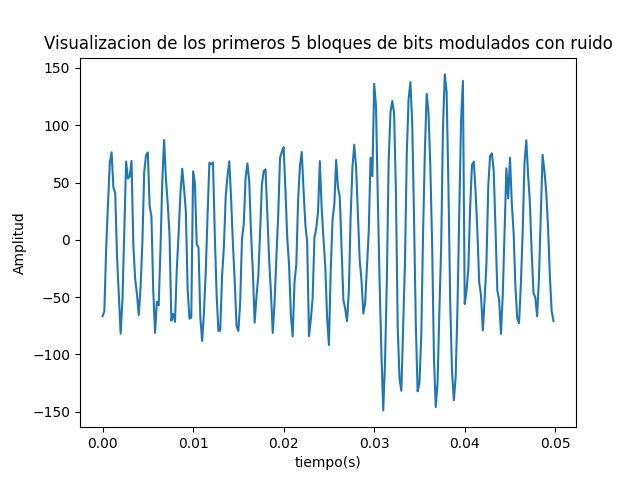
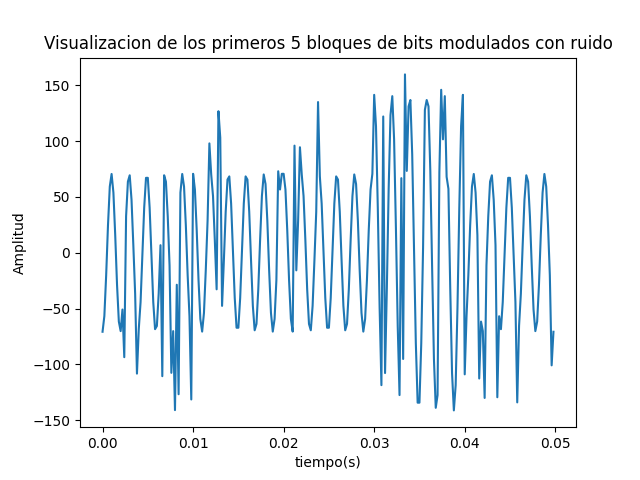
update

diff --git a/P6/p7conruido.py b/P6/p7conruido.py
@@ -92,24 +92,28 @@ for p,b in enumerate(bits):
         senal[p*pts:(p+1)*pts] = 5*cnst*cosine
     elif (b[0]%2  != 0 and b[1]%2 != 0): #11
         senal[p*pts:(p+1)*pts] = 10*cnst*cosine
-
-
-# Se agrega ruido a la señal
-
-# Potencia instantánea
-Pinst = senal**2
-# Potencia promedio a partir de la potencia instantánea (W)
-Ps = integrate.trapz(Pinst, t) / (len(bits)*50 * T_sim)
-# Relación señal-a-ruido deseada
-SNR = -1
-# Potencia del ruido para SNR y potencia de la señal dadas
-Pn = Ps / (10**(SNR / 10))
-# Desviación estándar del ruido
-sigma = np.sqrt(Pn)
-# Creacion de ruido (Pn = sigma^2)
-ruido = np.random.normal(0, sigma, senal.shape)
-# senal con ruido
-senal = senal + ruido
+    # agregar el ruido
+    p_e = 0.1 # porcentaje de ruido
+    for i in range(p*pts,((p+1)*pts)):
+        prob = np.random.rand(1) 
+        if (prob <= p_e):
+            decimal=np.random.rand(1)
+            if(b[0]%2  == 0 and b[1]%2 == 0):
+                entero=np.random.randint(4*cnst,12*cnst)
+                numeroerror=-entero-decimal
+                senal[i]=numeroerror
+            if(b[0]%2  == 0 and b[1]%2 != 0):
+                entero=np.random.randint(4*cnst,10*cnst)
+                numeroerror=-entero-decimal
+                senal[i]=numeroerror
+            if(b[0]%2  != 0 and b[1]%2 == 0):
+                entero=np.random.randint(4*cnst,10*cnst)
+                numeroerror=entero+decimal
+                senal[i]=numeroerror
+            if(b[0]%2  != 0 and b[1] != 0):
+                entero=np.random.randint(4*cnst,12*cnst)
+                numeroerror=entero+decimal
+                senal[i]=numeroerror
 
 #senal = senal[int(pts/2):]
 #t = t[:-int(pts/2)]
@@ -119,7 +123,7 @@ plt.plot(t[0:pb*pts],senal[0:pb*pts])
 plt.title('Visualizacion de los primeros 5 bloques de bits modulados con ruido')
 plt.ylabel('Amplitud')
 plt.xlabel('tiempo(s)')
-plt.savefig('p6_senalsinruido.png')
+plt.savefig('p7_senalconruido.png')
 plt.close()
 
 
